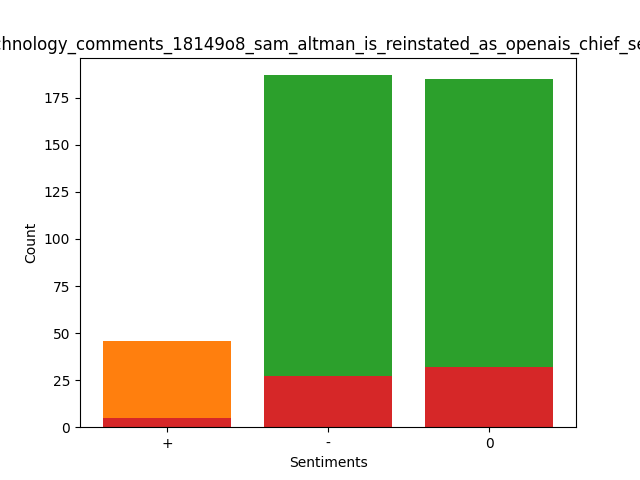
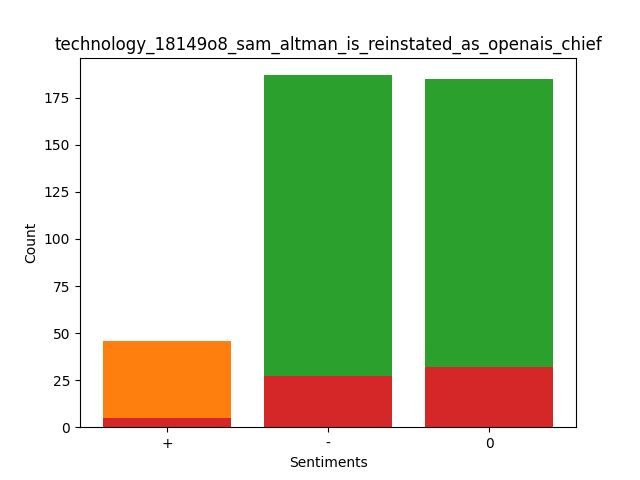
Cleaned up graph

Changed region(s): [[0.0, 0.0625, 1.0, 0.125]]

diff --git a/main.py b/main.py
@@ -47,6 +47,7 @@ def main():
 # Create visual representation of sentiments for a post
 def graph_data():
     sentiment_dir = "data/processed/sentiments"
+    plot_dir = "data/plots"
     file_list = os.listdir(sentiment_dir)
 
     for file_name in file_list:
@@ -62,8 +63,8 @@ def graph_data():
                 matplt.bar(vibe_count.index, vibe_count.values)
                 matplt.xlabel('Sentiments')
                 matplt.ylabel('Count')
-                matplt.title(f'{file_name}')
-                matplt.savefig(f'data/plots/{file_name.replace(".json", ".png")}')
+                matplt.title(f'{file_name.replace("reddit_r_", "").replace("comments_", "").replace("_sentiment.json", "")}')
+                matplt.savefig(f'{plot_dir}/{file_name.replace(".json", ".png")}')
                 
 if __name__ == "__main__":
 #    main()
